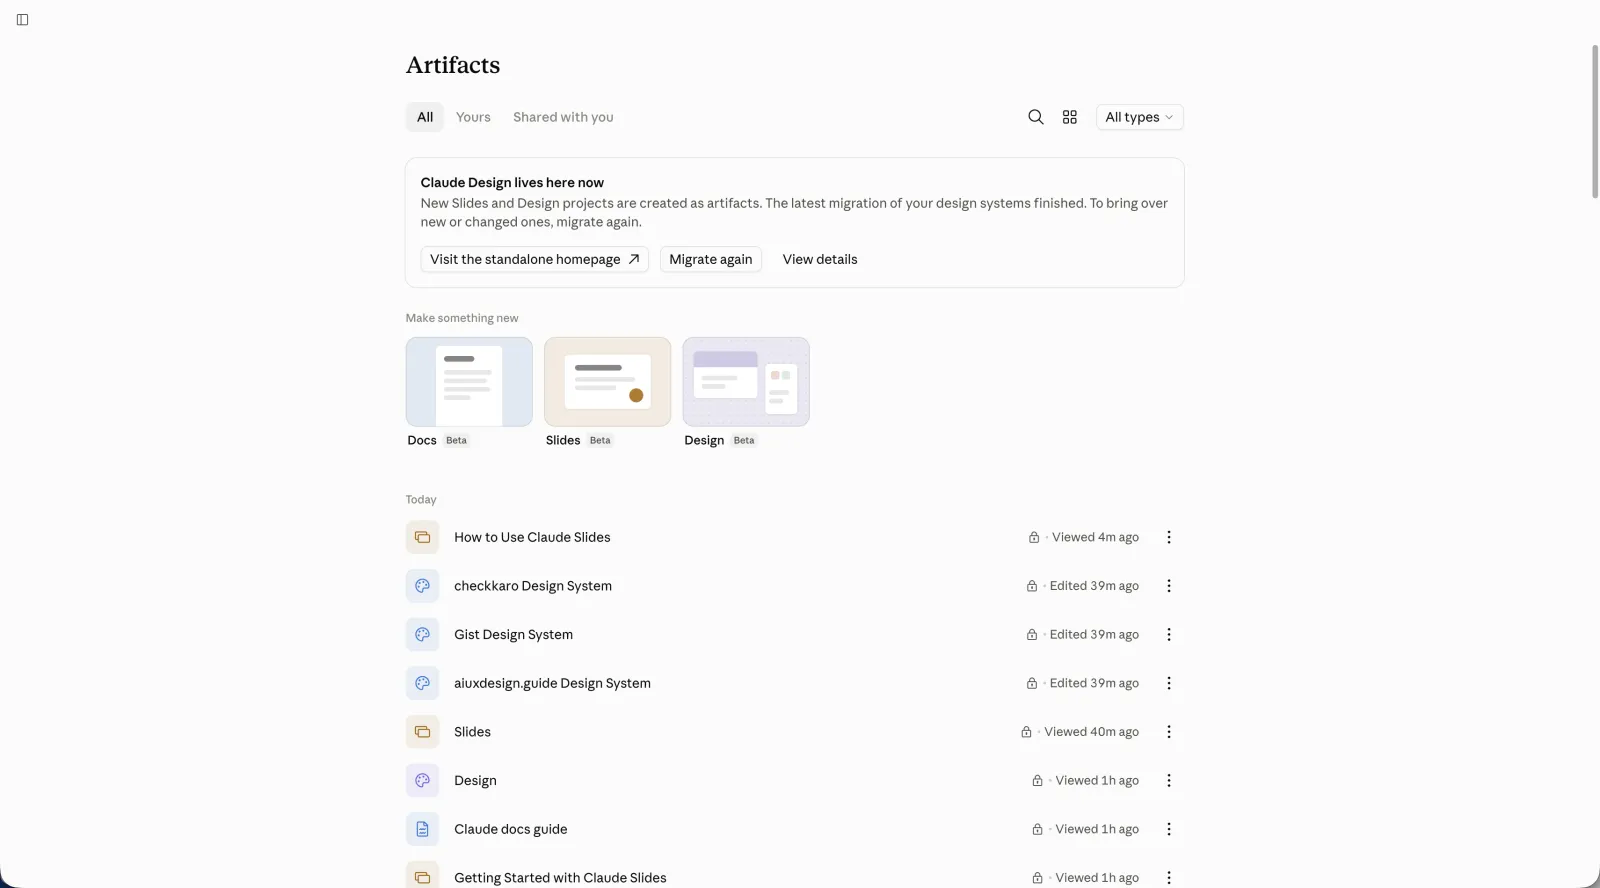
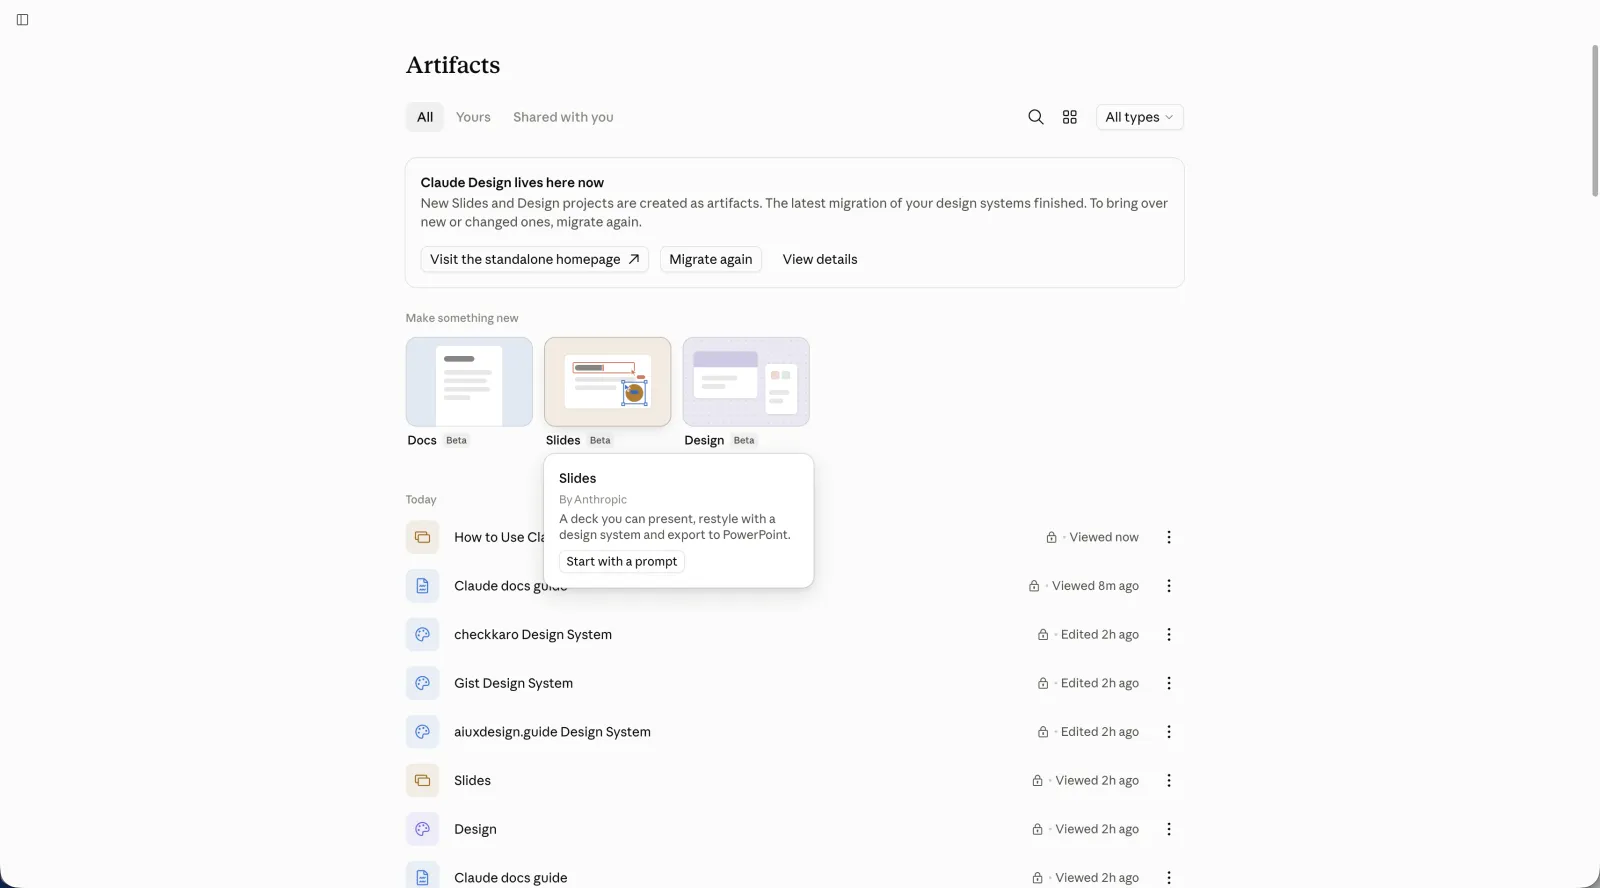
Prove the picker fix and the branded deck, and stop loading images eagerly

diff --git a/src/data/guides.ts b/src/data/guides.ts
@@ -9607,8 +9607,8 @@ Audience: Early-stage VCs in the design-tools space.`,
           {
             "type": "image",
             "src": "/images/guides/claude-slides-guide/lesson-1/artifacts-page.webp",
-            "alt": "The Artifacts page in Claude, showing three tiles under Make something new: Docs, Slides and Design, each marked Beta.",
-            "label": "Slides is the middle tile. Everything you have already made sits underneath."
+            "alt": "The Artifacts page in Claude with the Slides tile hovered, showing a tooltip reading: a deck you can present, restyle with a design system and export to PowerPoint, above a Start with a prompt button.",
+            "label": "Slides is the middle tile. Hovering gives Anthropic's own one-line definition, and a Start with a prompt button."
           },
           {
             "type": "heading",
@@ -9698,6 +9698,12 @@ Audience: Early-stage VCs in the design-tools space.`,
           },
           {
             "type": "image",
+            "src": "/images/guides/claude-slides-guide/lesson-2/picker-filled.webp",
+            "alt": "The Claude Slides empty state after migrating, where the control now reads Design system: aiuxdesign.guide Design System instead of an empty Choose design system dropdown.",
+            "label": "After migration the control names your system instead of asking you to choose one. This is what a working picker looks like."
+          },
+          {
+            "type": "image",
             "src": "/images/guides/claude-slides-guide/lesson-2/migration-finished.webp",
             "alt": "The Artifacts page banner after migrating, reading that the latest migration of your design systems finished and offering Migrate again to bring over new or changed ones.",
             "label": "After it finishes, the banner changes to Migrate again. Run it after you edit a system, or the artifact side keeps the old one."
@@ -9755,6 +9761,16 @@ Audience: Early-stage VCs in the design-tools space.`,
           {
             "type": "text",
             "content": "So the reason to migrate a design system is not rescue. The default will not embarrass you. The reason is brand fidelity: this deck looks like Claude made it, not like your company made it. That is a real argument, and it is a different one from the argument most write-ups will make."
+          },
+          {
+            "type": "image",
+            "src": "/images/guides/claude-slides-guide/lesson-3/branded-deck.webp",
+            "alt": "The same request run with a design system applied: a navy title slide set in the site's own typeface, with a ten-slide filmstrip underneath.",
+            "label": "The same one-line brief with a design system applied. Navy and Satoshi, and ten slides instead of five."
+          },
+          {
+            "type": "text",
+            "content": "Claude's own summary of that run named the change without being asked: built in the site's navy-and-Satoshi look. Applying a system does not only recolour the deck, it changed the length as well, from five slides to ten."
           },
           {
             "type": "callout",

diff --git a/src/components/ui/LessonRenderer.tsx b/src/components/ui/LessonRenderer.tsx
@@ -677,11 +677,17 @@ const renderSection = (
                   className="w-full rounded-card border border-border-secondary"
                 />
               ) : (
+                // Lazy by default: a lesson can carry several screenshots, and
+                // the Slides course has GIFs that run to a megabyte between
+                // them. None of it is above the fold, so none of it should
+                // compete with the text for the first paint.
                 <img
                   src={section.src}
                   alt={section.alt}
                   width={800}
                   height={450}
+                  loading="lazy"
+                  decoding="async"
                   className="w-full rounded-card border border-border-secondary"
                 />
               )}
